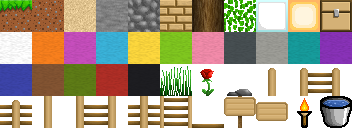
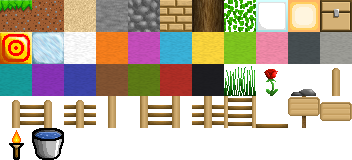
added ice and bouncy blocks

diff --git a/src/entity/player.c b/src/entity/player.c
@@ -23,9 +23,9 @@ Player* player_create(Vector2 initialPosition, Color color) {
 	Player* player = malloc(sizeof(Player));
 	if (!player) return NULL;
 
-	player->direction = 0;
 	player->rotation = 0.0f;
 	player->disable_input = false;
+	player->last_on_slippery = false;
 	player->color = color;
 
 	player->entity.rect.x = initialPosition.x;
@@ -49,12 +49,21 @@ void player_update(Entity* entity, float deltaTime) {
 	if (!entity) return;
 	Player* player = (Player*)entity->parent;
 
+	float frictionFactor = 20.0f;
+	if (!entity->gravity_affected) {
+		frictionFactor = 5.0f;
+	}
+
+	if (entity->gravity_affected && entity->on_slippery) {
+		frictionFactor = 1.0f;
+	}
+
 	if (player->disable_input) {
 		if (!entity->gravity_affected)
-			entity->velocity = Vector2Lerp(entity->velocity, Vector2Zero(), Clamp(5.0f * deltaTime, 0.0f, 1.0f));
+			entity->velocity = Vector2Lerp(entity->velocity, Vector2Zero(), Clamp(frictionFactor * deltaTime, 0.0f, 1.0f));
 		else {
-			entity->velocity.x = Lerp(player->entity.velocity.x, 0.0f, Clamp(20.0f * deltaTime, 0.0f, 1.0f));
-			if (player->entity.grounded) player->direction = 0;
+			if (entity->grounded || !player->last_on_slippery) player->entity.velocity.x = Lerp(player->entity.velocity.x, 0.0f, Clamp(frictionFactor * deltaTime, 0.0f, 1.0f));
+			if (entity->grounded && player->last_on_slippery) player->last_on_slippery = false;
 		}
 
 		return;
@@ -66,10 +75,9 @@ void player_update(Entity* entity, float deltaTime) {
 
 	if (IsKeyDown(KEY_LEFT_SHIFT)) speed /= 4.0f;
 	else if (IsKeyDown(KEY_LEFT_CONTROL)) speed *= 2.5f;
-
+		
 	// If not gravity affected, then start floating
 	if (!entity->gravity_affected) {
-		player->direction = 0;
 		float nineties = roundf((player->rotation / 90.0f)) * 90.0f;
 		player->rotation = Lerp(player->rotation, nineties, Clamp(50.0f * deltaTime, 0.0f, 1.0f));
 
@@ -81,22 +89,20 @@ void player_update(Entity* entity, float deltaTime) {
 		if (dir.x != 0.0f || dir.y != 0.0f)
 			dir = Vector2Normalize(dir);
 
-		entity->velocity = Vector2Lerp(entity->velocity, Vector2Scale(dir, speed), Clamp(5.0f * deltaTime, 0.0f, 1.0f));
+		entity->velocity = Vector2Lerp(entity->velocity, Vector2Scale(dir, speed), Clamp(frictionFactor * deltaTime, 0.0f, 1.0f));
 	}
 	// Otherwise behave like a platformer player controller
 	else {
 		// Horizontal movement
 		if (IsKeyDown(KEY_A) || IsKeyDown(KEY_LEFT)) {
-			player->entity.velocity.x = Lerp(player->entity.velocity.x, -speed, Clamp(20.0f * deltaTime, 0.0f, 1.0f));
-			player->direction = -1;
+			player->entity.velocity.x = Lerp(player->entity.velocity.x, -speed, Clamp(frictionFactor * deltaTime, 0.0f, 1.0f));
 		}
 		else if (IsKeyDown(KEY_D) || IsKeyDown(KEY_RIGHT)) {
-			player->entity.velocity.x = Lerp(player->entity.velocity.x, speed, Clamp(20.0f * deltaTime, 0.0f, 1.0f));
-			player->direction = 1;
+			player->entity.velocity.x = Lerp(player->entity.velocity.x, speed, Clamp(frictionFactor * deltaTime, 0.0f, 1.0f));
 		}
 		else {
-			player->entity.velocity.x = Lerp(player->entity.velocity.x, 0.0f, Clamp(20.0f * deltaTime, 0.0f, 1.0f));
-			if (player->entity.grounded) player->direction = 0;
+			if (entity->grounded || !player->last_on_slippery) player->entity.velocity.x = Lerp(player->entity.velocity.x, 0.0f, Clamp(frictionFactor * deltaTime, 0.0f, 1.0f));
+			if (entity->grounded && player->last_on_slippery) player->last_on_slippery = false;
 		}
 
 		// Jumping or swimming
@@ -106,11 +112,11 @@ void player_update(Entity* entity, float deltaTime) {
 				if (entity->on_liquid) up_speed *= 0.5f;
 				else if (entity->on_climbable) up_speed *= 0.75f;
 
-				player->entity.velocity.y = Lerp(player->entity.velocity.y, up_speed, Clamp(20.0f * deltaTime, 0.0f, 1.0f));
+				player->entity.velocity.y = Lerp(player->entity.velocity.y, up_speed, Clamp(frictionFactor * deltaTime, 0.0f, 1.0f));
 			}
 			else if (entity->grounded) {
+				if (entity->on_slippery) player->last_on_slippery = true;
 				player->entity.velocity.y = -JUMP_FORCE;
-				if (player->direction == 0) player->rotation = 0.0f;
 			}
 		}
 
@@ -121,8 +127,11 @@ void player_update(Entity* entity, float deltaTime) {
 			rotation_amount /= 2.0f;
 		}
 
-		if (!entity->grounded && !entity->on_climbable) {
-			player->rotation += rotation_amount * deltaTime * player->direction;
+		if (!entity->grounded && !entity->on_climbable && fabsf(entity->velocity.x) > 0.1f) {
+			if (entity->velocity.x < 0.0f)
+				player->rotation -= rotation_amount * deltaTime;
+			else if (entity->velocity.x > 0.0f)
+				player->rotation += rotation_amount * deltaTime;
 		}
 		else {
 			float nineties = roundf((player->rotation / 90.0f)) * 90.0f;

diff --git a/src/entity/entity.c b/src/entity/entity.c
@@ -20,6 +20,8 @@
 typedef struct {
 	Rectangle rect;
 	float t;
+	bool bouncy;
+	bool slippery;
 } RectPair;
 
 int compare_rects(const void* a, const void* b) {
@@ -117,22 +119,31 @@ static bool entity_vs_rect(const Entity* entity, const Rectangle* staticRect, co
 	}
 }
 
-static bool resolve_entity_vs_rect(Entity* entity, Rectangle* staticRect, const float deltaTime) {
+static bool resolve_entity_vs_rect(Entity* entity, Rectangle* staticRect, const float deltaTime, bool bounce) {
 	Vector2 contact_point, contact_normal;
 	float contact_time = 0.0f;
 	if (entity_vs_rect(entity, staticRect, deltaTime, &contact_point, &contact_normal, &contact_time)) {
-		if (contact_normal.y < 0.0f) entity->grounded = true;
+		if (contact_normal.y < 0.0f) {
+			entity->grounded = true;
+		}
+
 		if (entity->grounded && contact_normal.x != 0.0f) {
 			float y_diff = (entity->rect.y + entity->rect.height) - staticRect->y;
 			if (y_diff > 0.0f && y_diff < (entity->rect.height * 0.6f)) {
 				entity->rect.y = (staticRect->y - entity->rect.height) - 0.01f;
 			}
 		}
-		
-		Vector2 abs = (Vector2) { fabsf(entity->velocity.x), fabsf(entity->velocity.y) };
+
+		Vector2 abs = (Vector2){ fabsf(entity->velocity.x), fabsf(entity->velocity.y) };
 		Vector2 norm = Vector2Multiply(contact_normal, abs);
 		Vector2 inv = Vector2Scale(norm, 1.0f - contact_time);
-		entity->velocity = Vector2Add(entity->velocity, inv);
+
+		entity->velocity.x += inv.x;
+		if (bounce && contact_normal.y < 0.0f && fabsf(entity->velocity.y) > (TILE_SIZE * 3.0f)) {
+			entity->velocity.y = -entity->velocity.y * 0.8f;
+		}
+		else
+			entity->velocity.y += inv.y;
 
 		return true;
 	}
@@ -182,6 +193,8 @@ static void resolve_solid_blocks(Entity* entity, float deltaTime) {
 				if (entity_vs_rect(entity, &rect, deltaTime, &cp, &cn, &t)) {
 					rects[rect_count].rect = rect;
 					rects[rect_count].t = t;
+					rects[rect_count].bouncy = (reg->flags & BLOCK_FLAG_BOUNCY);
+					rects[rect_count].slippery = (reg->flags & BLOCK_FLAG_SLIPPERY);
 					rect_count++;
 				}
 			}
@@ -192,7 +205,8 @@ static void resolve_solid_blocks(Entity* entity, float deltaTime) {
 
 	for (size_t i = 0; i < rect_count; i++) {
 		Rectangle* rect = &rects[i].rect;
-		resolve_entity_vs_rect(entity, rect, deltaTime);
+		if (!entity->on_slippery && rects[i].slippery) entity->on_slippery = true;
+		resolve_entity_vs_rect(entity, rect, deltaTime, rects[i].bouncy);
 	}
 }
 
@@ -257,6 +271,7 @@ void entity_update(Entity* entity, float deltaTime) {
 
 	entity->on_liquid = false;
 	entity->grounded = false;
+	entity->on_slippery = false;
 	entity->on_climbable = false;
 
 	resolve_area_blocks(entity);

diff --git a/include/registries/block_registry.h b/include/registries/block_registry.h
@@ -25,6 +25,8 @@ typedef enum {
 	BLOCK_GLASS,
 	BLOCK_LAMP,
 	BLOCK_CHEST,
+	BLOCK_BOUNCY_BLOCK,
+	BLOCK_ICE,
 	BLOCK_WOOL,
 	BLOCK_ORANGE_WOOL,
 	BLOCK_MAGENTA_WOOL,
@@ -94,6 +96,15 @@ typedef enum {
 	// other blocks, and will render only if it is in the
 	// block layer.
 	BLOCK_FLAG_LIQUID = (1 << 8),
+
+	// Tells if the block is bouncy.
+	// whenever a entity lands on the block, it will bounce
+	// away the vertical velocity with some loss.
+	BLOCK_FLAG_BOUNCY = (1 << 9),
+
+	// Tells if the block is slippery.
+	// it will make entities have less friction.
+	BLOCK_FLAG_SLIPPERY = (1 << 10)
 } BlockFlag;
 
 typedef enum {
@@ -205,6 +216,8 @@ QUICK_BLOCK(leaves, ATLAS_LEAVES)
 QUICK_BLOCK(glass, ATLAS_GLASS)
 QUICK_BLOCK(lamp, ATLAS_LAMP)
 QUICK_BLOCK(chest, ATLAS_CHEST)
+QUICK_BLOCK(bouncy_block, ATLAS_BOUNCY_BLOCK)
+QUICK_BLOCK(ice, ATLAS_ICE)
 QUICK_BLOCK(wool, ATLAS_WOOL)
 QUICK_BLOCK(orange_wool, ATLAS_ORANGE_WOOL)
 QUICK_BLOCK(magenta_wool, ATLAS_MAGENTA_WOOL)

diff --git a/src/registries/block_registry.c b/src/registries/block_registry.c
@@ -102,6 +102,18 @@ void block_registry_init() {
         .destroy_callback = on_chest_destroy
     };
 
+    blockRegistry[BLOCK_BOUNCY_BLOCK] = (BlockRegistry){
+        .variant_generator = variant_bouncy_block,
+        .flags = BLOCK_FLAG_SOLID | BLOCK_FLAG_FULL_BLOCK | BLOCK_FLAG_BOUNCY,
+        .lightLevel = BLOCK_LIGHT_NONE
+    };
+
+    blockRegistry[BLOCK_ICE] = (BlockRegistry){
+        .variant_generator = variant_ice,
+        .flags = BLOCK_FLAG_SOLID | BLOCK_FLAG_FULL_BLOCK | BLOCK_FLAG_SLIPPERY,
+        .lightLevel = BLOCK_LIGHT_TRANSPARENT
+    };
+
     blockRegistry[BLOCK_WOOL] = (BlockRegistry){
         .variant_generator = variant_wool,
         .flags = BLOCK_FLAG_SOLID | BLOCK_FLAG_FULL_BLOCK,

diff --git a/src/entity/item_entity.c b/src/entity/item_entity.c
@@ -45,8 +45,13 @@ void item_entity_update(Entity* entity, float deltaTime) {
 	if (ie->timer < 1.0f) ie->timer += deltaTime;
 	if (ie->timer > 1.0f) ie->timer = 1.0f;
 
+	float frictionFactor = 20.0f;
+	if (entity->grounded && entity->on_slippery) {
+		frictionFactor = 1.0f;
+	}
+
 	if (entity->grounded) {
-		entity->velocity.x = Lerp(entity->velocity.x, 0.0f, 20.0f * deltaTime);
+		entity->velocity.x = Lerp(entity->velocity.x, 0.0f, Clamp(frictionFactor * deltaTime, 0.0f, 1.0f));
 	}
 
 	Player* player = game_get_player();

diff --git a/src/registries/item_registry.c b/src/registries/item_registry.c
@@ -98,6 +98,20 @@ void item_registry_init() {
 		.blockId = BLOCK_CHEST
 	};
 
+	itemRegistry[ITEM_BOUNCY_BLOCK] = (ItemRegistry){
+		.name = "Bouncy Block",
+		.atlas_idx = ATLAS_BOUNCY_BLOCK,
+		.model_idx = BLOCK_MODEL_QUAD,
+		.blockId = BLOCK_BOUNCY_BLOCK
+	};
+
+	itemRegistry[ITEM_ICE] = (ItemRegistry){
+		.name = "Ice",
+		.atlas_idx = ATLAS_ICE,
+		.model_idx = BLOCK_MODEL_QUAD,
+		.blockId = BLOCK_ICE
+	};
+
 	itemRegistry[ITEM_WOOL] = (ItemRegistry){
 		.name = "Wool",
 		.atlas_idx = ATLAS_WOOL,

diff --git a/src/game.c b/src/game.c
@@ -54,7 +54,7 @@ char debug_text[1024];
 void game_init() {
     place_mode_icon = LoadTexture(ASSETS_PATH "place_modes.png");
 
-    texture_atlas_load(ASSETS_PATH "atlas.png", 4, 11);
+    texture_atlas_load(ASSETS_PATH "atlas.png", 5, 11);
 
     block_models_init();
     block_colliders_init();

diff --git a/include/entity/player.h b/include/entity/player.h
@@ -8,9 +8,9 @@
 typedef struct {
 	Entity entity;
 	Color color;
-	int direction;
 	float rotation;
 	bool disable_input;
+	bool last_on_slippery;
 } Player;
 
 Player* player_create(Vector2 initialPosition, Color color);

diff --git a/include/types.h b/include/types.h
@@ -34,6 +34,8 @@ typedef enum {
 	ATLAS_GLASS,
 	ATLAS_LAMP,
 	ATLAS_CHEST,
+	ATLAS_BOUNCY_BLOCK,
+	ATLAS_ICE,
 	ATLAS_WOOL,
 	ATLAS_ORANGE_WOOL,
 	ATLAS_MAGENTA_WOOL,

diff --git a/include/registries/item_registry.h b/include/registries/item_registry.h
@@ -23,6 +23,8 @@ typedef enum {
 	ITEM_GLASS,
 	ITEM_LAMP,
 	ITEM_CHEST,
+	ITEM_BOUNCY_BLOCK,
+	ITEM_ICE,
 	ITEM_WOOL,
 	ITEM_ORANGE_WOOL,
 	ITEM_MAGENTA_WOOL,

diff --git a/include/entity/entity.h b/include/entity/entity.h
@@ -20,6 +20,8 @@ typedef struct Entity {
 	bool gravity_affected;
 
 	bool grounded;
+	bool on_slippery;
+
 	bool on_liquid;
 	bool on_climbable;
 } Entity;
